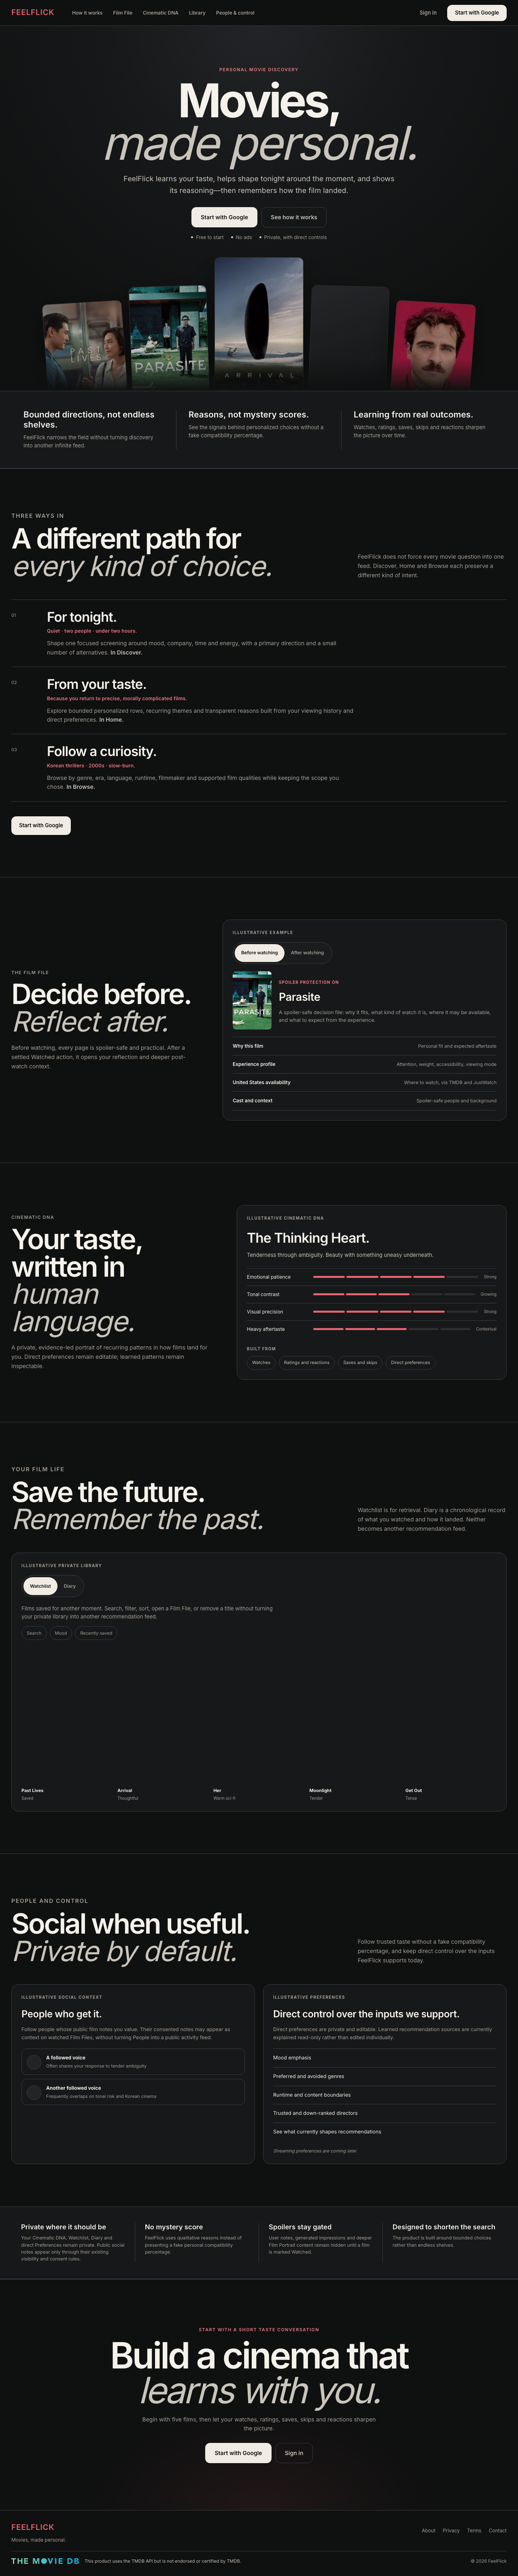
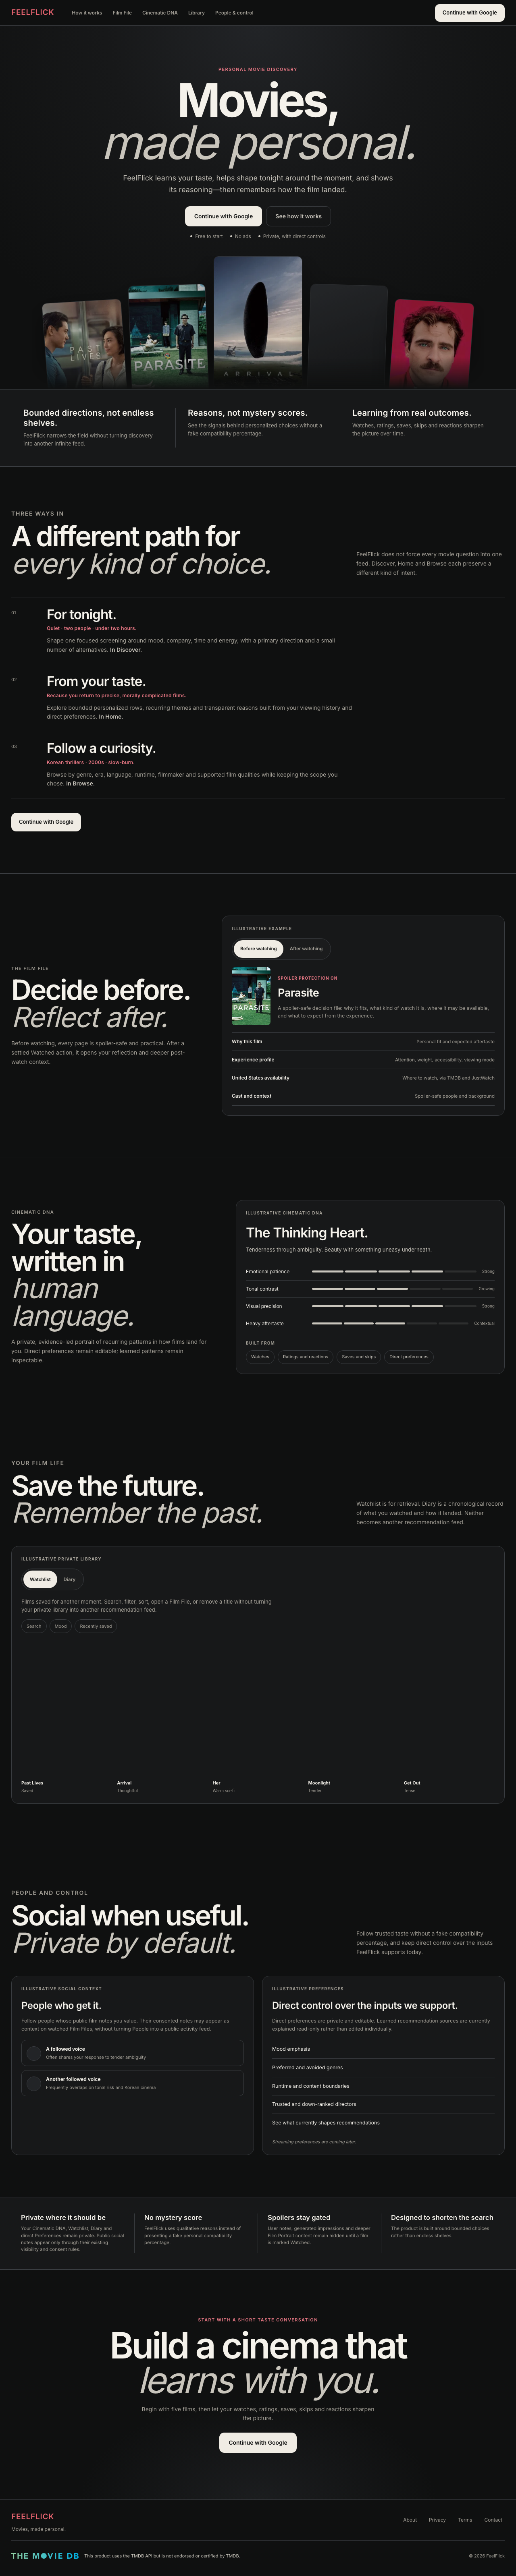
fix: improve landing accessibility and CTA clarity
- Consolidate every Landing Google auth control to one canonical
  "Continue with Google" label, at most one per local decision region: drop the
  redundant "Sign in" in the header, final CTA and mobile menu; relabel the hero
  and product-entrance CTAs. Pending stays "Opening Google…"; the error-retry
  control stays "Try again". No new auth method is implied.
- Stable tab panels (Film File + Library): both panels render with stable ids so
  every tab's aria-controls resolves; the inactive panel is `hidden` (removed from
  focus order + the a11y tree). Keyboard behaviour unchanged.
- Mobile menu: make non-dialog page content inert while open (in addition to
  aria-modal + focus trap), removing exactly what we set on close so focus
  restoration and the existing trap/Escape/scroll-lock are preserved.
- Move LANDING_NAV into the landing data module (header + mobile menu import it
  from data, removing the component-to-component import).
- Fix the stale LandingFooter comment (it renders the official TMDB logo asset).
- Regenerate the two Darwin Landing visual baselines that changed beyond tolerance
  (desktop + mobile full page); the localized label/header changes in the other
  four states are within the project's visual tolerance and are guarded
  semantically by the e2e specs.

diff --git a/src/features/landing/components/FilmFilePreview.jsx b/src/features/landing/components/FilmFilePreview.jsx
@@ -10,7 +10,6 @@ const TABS = [
 
 export default function FilmFilePreview() {
   const [active, setActive] = useState('before')
-  const data = FILM_FILE_EXAMPLE[active]
   return (
     <section className="ff-l-section ff-l-filmfile" id="film-file" aria-labelledby="ff-l-filmfile-h">
       <div className="ff-l-shell ff-l-filmfile-layout">
@@ -25,30 +24,39 @@ export default function FilmFilePreview() {
         <article className="ff-l-card ff-l-example">
           <p className="ff-l-example-tag">Illustrative example</p>
           <LandingTabs label="Film File state" tabs={TABS} active={active} onChange={setActive} idBase="ff-l-filmfile" />
-          <div
-            className="ff-l-filmfile-panel"
-            role="tabpanel"
-            id={`ff-l-filmfile-panel-${active}`}
-            aria-labelledby={`ff-l-filmfile-tab-${active}`}
-            tabIndex={0}
-          >
-            <div className="ff-l-filmfile-top">
-              <Poster path={FILM_FILE_EXAMPLE.poster.path} title={FILM_FILE_EXAMPLE.poster.title} className="ff-l-filmfile-poster" />
-              <div>
-                <small className="ff-l-filmfile-status">{data.status}</small>
-                <h3 className="ff-l-filmfile-title">{FILM_FILE_EXAMPLE.title}</h3>
-                <p className="ff-l-filmfile-summary">{data.summary}</p>
-              </div>
-            </div>
-            <dl className="ff-l-filmfile-rows">
-              {data.rows.map(([k, v]) => (
-                <div key={k} className="ff-l-filmfile-row">
-                  <dt>{k}</dt><dd>{v}</dd>
+          {/* Both panels exist with stable IDs so every tab's aria-controls resolves;
+              the inactive panel is `hidden` (removed from focus order + a11y tree). */}
+          {TABS.map((t) => {
+            const data = FILM_FILE_EXAMPLE[t.id]
+            return (
+              <div
+                key={t.id}
+                className="ff-l-filmfile-panel"
+                role="tabpanel"
+                id={`ff-l-filmfile-panel-${t.id}`}
+                aria-labelledby={`ff-l-filmfile-tab-${t.id}`}
+                tabIndex={0}
+                hidden={t.id !== active}
+              >
+                <div className="ff-l-filmfile-top">
+                  <Poster path={FILM_FILE_EXAMPLE.poster.path} title={FILM_FILE_EXAMPLE.poster.title} className="ff-l-filmfile-poster" />
+                  <div>
+                    <small className="ff-l-filmfile-status">{data.status}</small>
+                    <h3 className="ff-l-filmfile-title">{FILM_FILE_EXAMPLE.title}</h3>
+                    <p className="ff-l-filmfile-summary">{data.summary}</p>
+                  </div>
                 </div>
-              ))}
-            </dl>
-            {data.note && <p className="ff-l-filmfile-note">{data.note}</p>}
-          </div>
+                <dl className="ff-l-filmfile-rows">
+                  {data.rows.map(([k, v]) => (
+                    <div key={k} className="ff-l-filmfile-row">
+                      <dt>{k}</dt><dd>{v}</dd>
+                    </div>
+                  ))}
+                </dl>
+                {data.note && <p className="ff-l-filmfile-note">{data.note}</p>}
+              </div>
+            )
+          })}
         </article>
       </div>
     </section>

diff --git a/src/features/landing/components/LibraryPreview.jsx b/src/features/landing/components/LibraryPreview.jsx
@@ -11,7 +11,6 @@ const DATA = { watchlist: WATCHLIST_EXAMPLE, diary: DIARY_EXAMPLE }
 
 export default function LibraryPreview() {
   const [active, setActive] = useState('watchlist')
-  const data = DATA[active]
   return (
     <section className="ff-l-section ff-l-library" id="library" aria-labelledby="ff-l-library-h">
       <div className="ff-l-shell">
@@ -25,27 +24,36 @@ export default function LibraryPreview() {
         <article className="ff-l-card ff-l-example">
           <p className="ff-l-example-tag">Illustrative private library</p>
           <LandingTabs label="Library view" tabs={TABS} active={active} onChange={setActive} idBase="ff-l-library" />
-          <div
-            className="ff-l-library-panel"
-            role="tabpanel"
-            id={`ff-l-library-panel-${active}`}
-            aria-labelledby={`ff-l-library-tab-${active}`}
-            tabIndex={0}
-          >
-            <p className="ff-l-library-copy">{data.copy}</p>
-            <ul className="ff-l-library-chips" aria-label="Example controls">
-              {data.chips.map((c) => <li key={c} className="ff-l-chip ff-l-chip--muted">{c}</li>)}
-            </ul>
-            <ul className="ff-l-poster-row">
-              {data.films.map((f) => (
-                <li key={f.title} className="ff-l-poster-item">
-                  <Poster path={f.path} title={f.title} size="w185" className="ff-l-poster-img" />
-                  <strong>{f.title}</strong>
-                  <span>{f.meta}</span>
-                </li>
-              ))}
-            </ul>
-          </div>
+          {/* Both panels exist with stable IDs so every tab's aria-controls resolves;
+              the inactive panel is `hidden` (removed from focus order + a11y tree). */}
+          {TABS.map((t) => {
+            const data = DATA[t.id]
+            return (
+              <div
+                key={t.id}
+                className="ff-l-library-panel"
+                role="tabpanel"
+                id={`ff-l-library-panel-${t.id}`}
+                aria-labelledby={`ff-l-library-tab-${t.id}`}
+                tabIndex={0}
+                hidden={t.id !== active}
+              >
+                <p className="ff-l-library-copy">{data.copy}</p>
+                <ul className="ff-l-library-chips" aria-label="Example controls">
+                  {data.chips.map((c) => <li key={c} className="ff-l-chip ff-l-chip--muted">{c}</li>)}
+                </ul>
+                <ul className="ff-l-poster-row">
+                  {data.films.map((f) => (
+                    <li key={f.title} className="ff-l-poster-item">
+                      <Poster path={f.path} title={f.title} size="w185" className="ff-l-poster-img" />
+                      <strong>{f.title}</strong>
+                      <span>{f.meta}</span>
+                    </li>
+                  ))}
+                </ul>
+              </div>
+            )
+          })}
         </article>
       </div>
     </section>

diff --git a/src/features/landing/components/LandingMobileMenu.jsx b/src/features/landing/components/LandingMobileMenu.jsx
@@ -1,7 +1,7 @@
 // src/features/landing/components/LandingMobileMenu.jsx
 import { useEffect, useRef } from 'react'
 import { useLandingAuth } from '../LandingAuth'
-import { LANDING_NAV } from './LandingHeader'
+import { LANDING_NAV } from '../data'
 
 export default function LandingMobileMenu({ open, onClose }) {
   const { startGoogleAuth, isAuthenticating } = useLandingAuth()
@@ -13,6 +13,23 @@ export default function LandingMobileMenu({ open, onClose }) {
     if (!open) return undefined
     triggerRef.current = document.activeElement
     document.body.classList.add('ff-l-locked')
+
+    // Compatibility hardening: make the rest of the page inert while the dialog is
+    // open (in addition to aria-modal + the focus trap). Inert every .ff-landing
+    // sibling of the dialog layer, tracking only what we set so cleanup removes
+    // exactly that — never an ancestor of the dialog, never left inert after close.
+    const layer = sheetRef.current?.closest('.ff-l-menu-layer')
+    const root = layer?.parentElement
+    const inerted = []
+    if (root) {
+      for (const child of root.children) {
+        if (child !== layer && !child.hasAttribute('inert')) {
+          child.setAttribute('inert', '')
+          inerted.push(child)
+        }
+      }
+    }
+
     const id = requestAnimationFrame(() => closeRef.current?.focus())
 
     const onKey = (e) => {
@@ -28,6 +45,8 @@ export default function LandingMobileMenu({ open, onClose }) {
     return () => {
       document.removeEventListener('keydown', onKey)
       document.body.classList.remove('ff-l-locked')
+      // Remove inert BEFORE restoring focus so the trigger's region is interactive.
+      inerted.forEach((el) => el.removeAttribute('inert'))
       cancelAnimationFrame(id)
       const t = triggerRef.current
       if (t && t.isConnected) requestAnimationFrame(() => t.focus())
@@ -60,9 +79,8 @@ export default function LandingMobileMenu({ open, onClose }) {
           ))}
         </nav>
         <div className="ff-l-menu-actions">
-          <button type="button" className="ff-l-btn ff-l-btn--ghost" onClick={start} disabled={isAuthenticating}>Sign in</button>
           <button type="button" className="ff-l-btn ff-l-btn--primary" onClick={start} disabled={isAuthenticating}>
-            {isAuthenticating ? 'Opening Google…' : 'Start with Google'}
+            {isAuthenticating ? 'Opening Google…' : 'Continue with Google'}
           </button>
         </div>
       </aside>

diff --git a/src/features/landing/components/LandingHeader.jsx b/src/features/landing/components/LandingHeader.jsx
@@ -1,15 +1,8 @@
 // src/features/landing/components/LandingHeader.jsx
 import { useEffect, useState } from 'react'
 import { useLandingAuth } from '../LandingAuth'
+import { LANDING_NAV } from '../data'
 import LandingMobileMenu from './LandingMobileMenu'
-
-export const LANDING_NAV = [
-  ['How it works', '#how-it-works'],
-  ['Film File', '#film-file'],
-  ['Cinematic DNA', '#cinematic-dna'],
-  ['Library', '#library'],
-  ['People & control', '#people-control'],
-]
 
 export default function LandingHeader() {
   const { startGoogleAuth, isAuthenticating } = useLandingAuth()
@@ -32,9 +25,8 @@ export default function LandingHeader() {
             {LANDING_NAV.map(([label, href]) => <a key={href} href={href}>{label}</a>)}
           </nav>
           <div className="ff-l-header-actions">
-            <button type="button" className="ff-l-btn ff-l-btn--text ff-l-desktop-only" onClick={startGoogleAuth} disabled={isAuthenticating}>Sign in</button>
-            <button type="button" className="ff-l-btn ff-l-btn--primary" onClick={startGoogleAuth} disabled={isAuthenticating}>
-              {isAuthenticating ? 'Opening Google…' : 'Start with Google'}
+            <button type="button" className="ff-l-btn ff-l-btn--primary ff-l-cta-google" onClick={startGoogleAuth} disabled={isAuthenticating}>
+              {isAuthenticating ? 'Opening Google…' : 'Continue with Google'}
             </button>
             <button
               type="button"

diff --git a/src/features/landing/data.js b/src/features/landing/data.js
@@ -16,6 +16,15 @@ export const LANDING_POSTERS = [
   { path: '/eCOtqtfvn7mxGl6nfmq4b1exJRc.jpg', title: 'Her' },
 ]
 
+// In-page section navigation, shared by the desktop header and the mobile menu.
+export const LANDING_NAV = [
+  ['How it works', '#how-it-works'],
+  ['Film File', '#film-file'],
+  ['Cinematic DNA', '#cinematic-dna'],
+  ['Library', '#library'],
+  ['People & control', '#people-control'],
+]
+
 export const PRINCIPLES = [
   { title: 'Bounded directions, not endless shelves.', body: 'FeelFlick narrows the field without turning discovery into another infinite feed.' },
   { title: 'Reasons, not mystery scores.', body: 'See the signals behind personalized choices without a fake compatibility percentage.' },

diff --git a/src/features/landing/components/LandingFinalCTA.jsx b/src/features/landing/components/LandingFinalCTA.jsx
@@ -14,9 +14,8 @@ export default function LandingFinalCTA() {
         </p>
         <div className="ff-l-final-actions">
           <button type="button" className="ff-l-btn ff-l-btn--primary ff-l-btn--lg" onClick={startGoogleAuth} disabled={isAuthenticating}>
-            {isAuthenticating ? 'Opening Google…' : 'Start with Google'}
+            {isAuthenticating ? 'Opening Google…' : 'Continue with Google'}
           </button>
-          <button type="button" className="ff-l-btn ff-l-btn--ghost ff-l-btn--lg" onClick={startGoogleAuth} disabled={isAuthenticating}>Sign in</button>
         </div>
       </div>
     </section>

diff --git a/src/features/landing/components/LandingFooter.jsx b/src/features/landing/components/LandingFooter.jsx
@@ -1,6 +1,7 @@
 // src/features/landing/components/LandingFooter.jsx
 // Valid legal routes only (/about, /privacy, /terms — no /feedback). Required TMDB
-// attribution notice (textual; no unverified logo asset).
+// attribution: the official local TMDB logo asset (public/brand/tmdb.svg) plus the
+// textual "not endorsed or certified by TMDB" notice (visible even if the image fails).
 export default function LandingFooter() {
   return (
     <footer className="ff-l-footer">

diff --git a/src/features/landing/components/LandingHero.jsx b/src/features/landing/components/LandingHero.jsx
@@ -15,7 +15,7 @@ export default function LandingHero() {
         </p>
         <div className="ff-l-hero-actions">
           <button type="button" className="ff-l-btn ff-l-btn--primary ff-l-btn--lg" onClick={startGoogleAuth} disabled={isAuthenticating}>
-            {isAuthenticating ? 'Opening Google…' : 'Start with Google'}
+            {isAuthenticating ? 'Opening Google…' : 'Continue with Google'}
           </button>
           <a className="ff-l-btn ff-l-btn--ghost ff-l-btn--lg" href="#how-it-works">See how it works</a>
         </div>

diff --git a/src/features/landing/components/ProductEntrances.jsx b/src/features/landing/components/ProductEntrances.jsx
@@ -30,7 +30,7 @@ export default function ProductEntrances() {
         </ul>
         <div className="ff-l-entrances-cta">
           <button type="button" className="ff-l-btn ff-l-btn--primary" onClick={startGoogleAuth} disabled={isAuthenticating}>
-            {isAuthenticating ? 'Opening Google…' : 'Start with Google'}
+            {isAuthenticating ? 'Opening Google…' : 'Continue with Google'}
           </button>
         </div>
       </div>